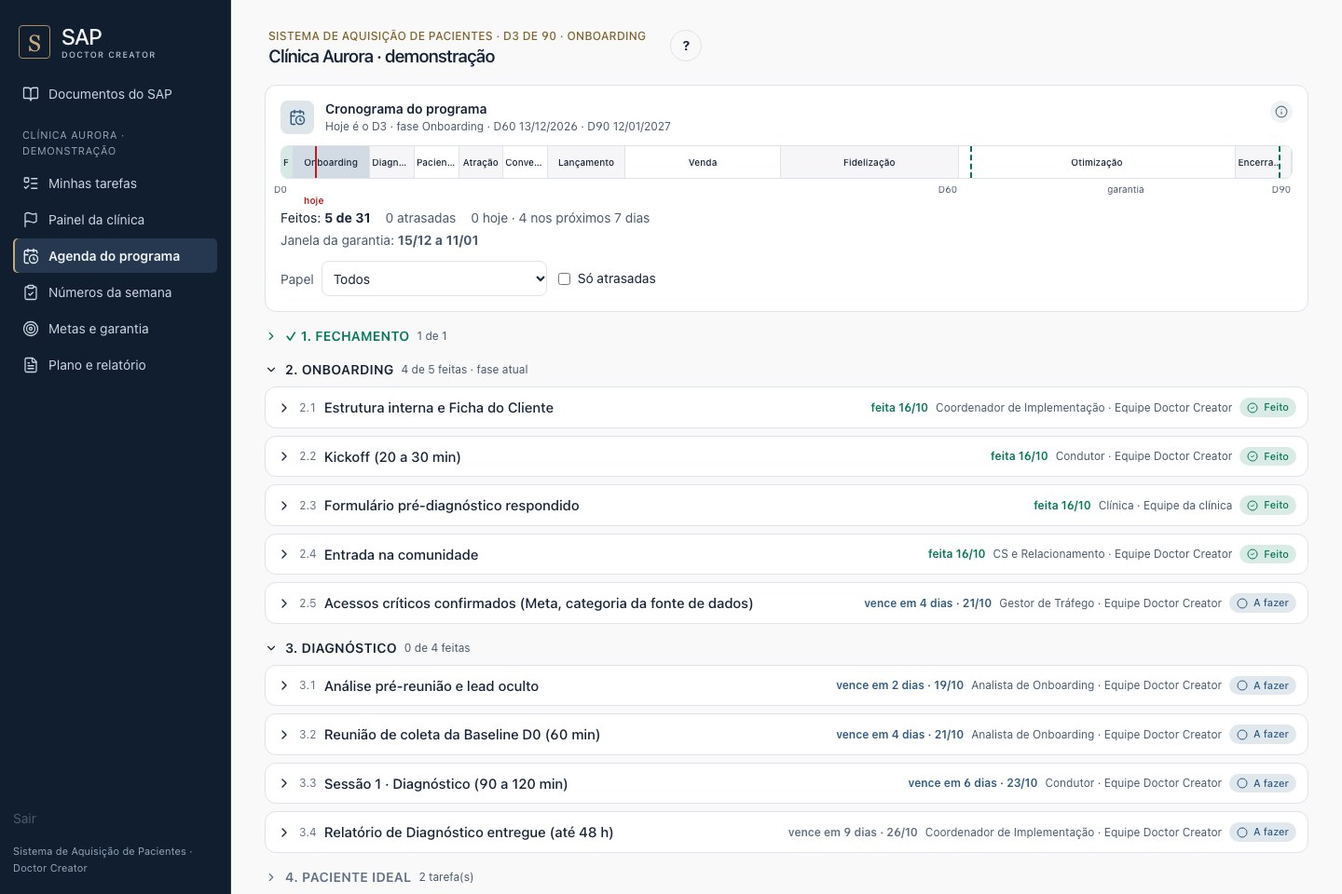
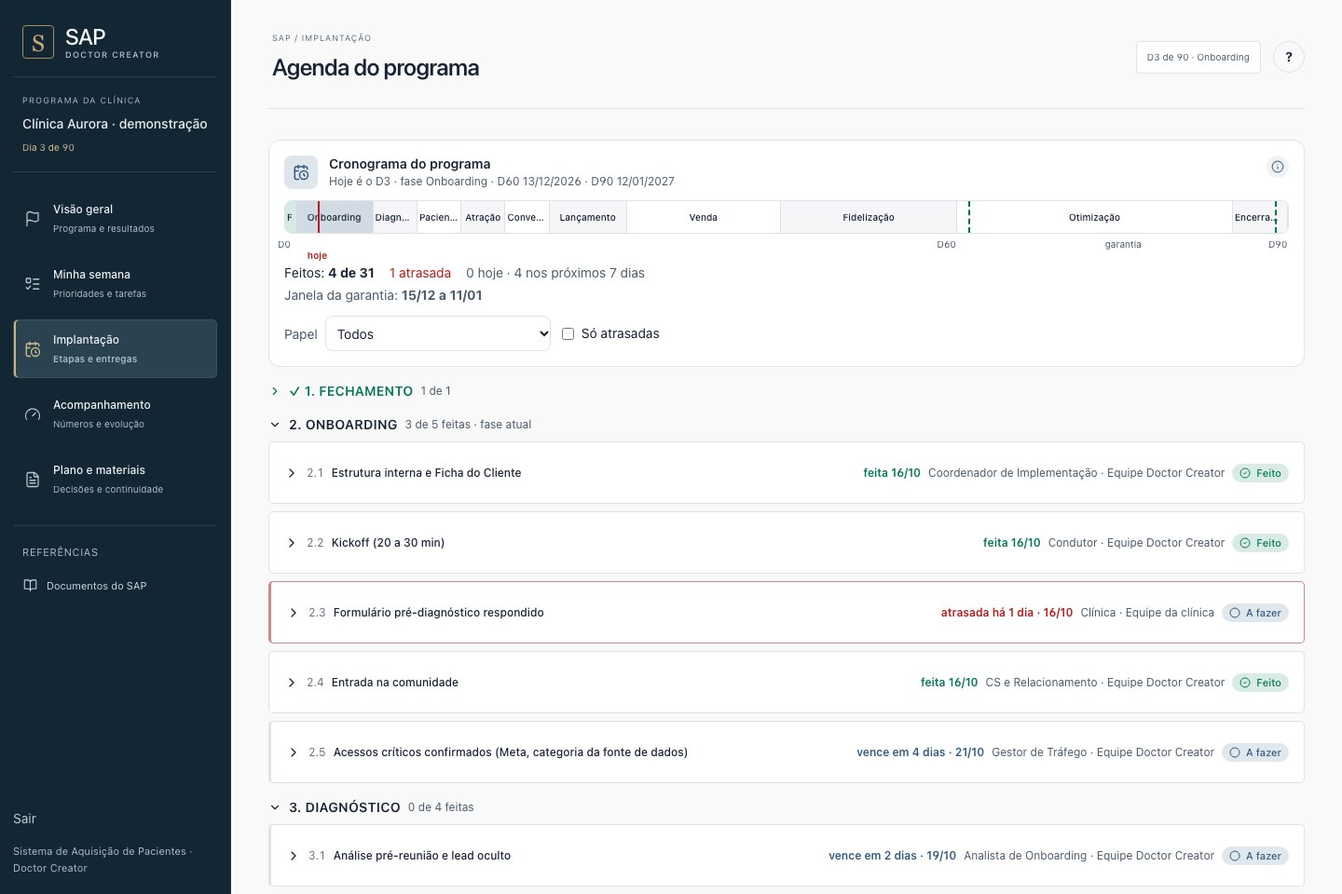
Redesign SAP workspace around programme areas and weekly priorities

diff --git a/src/routes/_authenticated.sap.tsx b/src/routes/_authenticated.sap.tsx
@@ -1,7 +1,7 @@
 import { ProductBrand } from "@/components/product-brand";
 import { createFileRoute, Link, Outlet, redirect, useRouterState } from "@tanstack/react-router";
 import { useQuery } from "@tanstack/react-query";
-import { useEffect, useState } from "react";
+import { useEffect, useRef, useState } from "react";
 import { CalendarClock, FileText, KeyRound, ClipboardCheck, Flag, Gauge, LayoutDashboard, ListChecks, ListTodo, Megaphone, Menu, Network, Target, Radar, Presentation, UsersRound, UserRoundCheck, BookOpen, X } from "lucide-react";
 import { useAuth } from "@/hooks/use-auth";
 import { LogoutButton } from "@/components/logout-button";
@@ -9,6 +9,7 @@ import { TrocaProduto } from "@/components/troca-produto";
 import { BotaoAjuda, PrimeiroAcesso } from "@/components/sap-ajuda";
 import { getClient } from "@/lib/client-data";
 import { supabase } from "@/integrations/supabase/client";
+import "@/sap-workspace.css";
 import { diaAtual, faseDoDia, getClinicaSap } from "@/lib/sap-data";
 
 // Sistema de Aquisição de Pacientes: produto separado do Doctor Creator Hub, com menu, entrada (sap.*) e
@@ -56,6 +57,15 @@ const ITENS = [
 ] as const;
 // Na visão da clínica, os grupos viram um só e alguns nomes ficam mais diretos.
 const ROTULO_CLINICA: Record<string, string> = { "/cronograma": "Agenda do programa", "/leitura": "Números da semana", "/documentos": "Plano e relatório" };
+// Groups reuse the existing permission-filtered items; every original destination stays available.
+const AREAS_SAP = [
+  { id: "visao", label: "Visão geral", hint: "Programa e resultados", Icone: Flag, subs: ["/painel"] },
+  { id: "tarefas", label: "Minha semana", hint: "Prioridades e tarefas", Icone: ListTodo, subs: [""] },
+  { id: "implantacao", label: "Implantação", hint: "Etapas e entregas", Icone: CalendarClock, subs: ["/cronograma", "/sessao", "/rastreamento", "/anuncios", "/etapas"] },
+  { id: "resultado", label: "Acompanhamento", hint: "Números e evolução", Icone: Gauge, subs: ["/leitura", "/metas", "/execucao", "/midia"] },
+  { id: "materiais", label: "Plano e materiais", hint: "Decisões e continuidade", Icone: FileText, subs: ["/documentos"] },
+  { id: "equipe", label: "Equipe e acessos", hint: "Responsáveis e preparação", Icone: UsersRound, subs: ["/papeis", "/onboarding"] },
+];
 const TITULOS: Record<string, string> = { "/sap/guia": "Como operamos", "/sap/docs": "Documentos do SAP", "/sap/comece": "Comece aqui" };
 
 function SapLayout() {
@@ -72,8 +82,32 @@ function SapConteudo({ isAdmin }: { isAdmin: boolean }) {
   const dia = diaAtual(clinica?.d0 ?? null, clinica?.pausas);
   const itens = (isAdmin ? ITENS.filter(() => true) : ITENS.filter((i) => "clinica" in i))
     .map((i) => ({ ...i, grupo: isAdmin ? i.grupo : "", label: isAdmin ? i.label : (ROTULO_CLINICA[i.sub] ?? i.label) }));
-  const titulo = TITULOS[pathname] ?? (clientId ? (cliente?.name ?? "Carregando…") : isAdmin ? "Todas as clínicas" : "Sistema de Aquisição");
+  const areas = AREAS_SAP.map(area => ({ ...area, itens: area.subs.flatMap(caminho => itens.filter(it => it.sub === caminho)) })).filter(area => area.itens.length);
+  const areaAtual = areas.find(area => area.subs.includes(sub ?? "__nenhuma__"));
+  const pagina = itens.find(it => it.sub === sub);
+  const titulo = clientId ? (sub === "" ? "Minha semana" : pagina?.label ?? "Programa da clínica") : TITULOS[pathname] ?? (isAdmin ? "Todas as clínicas" : "Sistema de Aquisição");
   const [gaveta, setGaveta] = useState(false);
+  const menuRef = useRef<HTMLElement>(null);
+  const openMenuRef = useRef<HTMLButtonElement>(null);
+  useEffect(() => {
+    if (!gaveta) return;
+    const menu = menuRef.current;
+    const opener = openMenuRef.current;
+    const focusable = () => Array.from(menu?.querySelectorAll<HTMLElement>("a[href],button:not([disabled])") ?? []).filter(el => el.getClientRects().length > 0);
+    focusable()[0]?.focus();
+    const onKey = (event: KeyboardEvent) => {
+      if (event.key === "Escape") { event.preventDefault(); setGaveta(false); }
+      if (event.key !== "Tab") return;
+      const items = focusable(), first = items[0], last = items[items.length - 1];
+      if (event.shiftKey && document.activeElement === first) { event.preventDefault(); last?.focus(); }
+      else if (!event.shiftKey && document.activeElement === last) { event.preventDefault(); first?.focus(); }
+    };
+    const desktop = window.matchMedia("(min-width: 821px)");
+    const onDesktop = () => { if (desktop.matches) setGaveta(false); };
+    document.addEventListener("keydown", onKey);
+    desktop.addEventListener("change", onDesktop);
+    return () => { document.removeEventListener("keydown", onKey); desktop.removeEventListener("change", onDesktop); opener?.focus(); };
+  }, [gaveta]);
   useEffect(() => { setGaveta(false); }, [pathname]);
 
   const links = (parte: "todas" | "clinica") => (
@@ -96,29 +130,22 @@ function SapConteudo({ isAdmin }: { isAdmin: boolean }) {
           <span>Documentos do SAP</span>
         </Link>
       )}
-      {parte === "clinica" &&
-        clientId &&
-        itens.map((it, i) => [
-          it.grupo && (i === 0 || itens[i - 1].grupo !== it.grupo) ? <div key={`g-${it.grupo}`} className="lbl" style={{ fontSize: 10, opacity: 0.8 }}>{it.grupo}</div> : null,
-          <Link
-            key={it.sub}
-            to={`/sap/$clientId${it.sub}` as never}
-            params={{ clientId } as never}
-            activeOptions={{ exact: true }}
-            data-on={sub === it.sub ? "" : undefined}
-            aria-current={sub === it.sub ? "page" : undefined}
-          >
-            <it.Icone aria-hidden size={18} />
-            <span>{it.label}</span>
-          </Link>,
-        ])}
+      {parte === "clinica" && clientId && areas.map(area => (
+        <Link key={area.id} to={`/sap/$clientId${area.itens[0].sub}` as never} params={{ clientId } as never} activeOptions={{ exact: true }}
+          data-on={areaAtual?.id === area.id ? "" : undefined}
+          aria-current={sub === area.itens[0].sub ? "page" : undefined}>
+          <area.Icone aria-hidden size={18} /><span><strong>{area.label}</strong><small>{area.hint}</small></span>
+        </Link>
+      ))}
+
     </>
   );
 
   return (
-    <div className="app">
+    <div className="app sap-workspace">
+      <a className="nx-skip" href="#sap-main">Ir para o conteúdo</a>
       {gaveta && <div className="sap-fundo-gaveta" aria-hidden onClick={() => setGaveta(false)} />}
-      <aside aria-label="Menu do Sistema de Aquisição" className={gaveta ? "gaveta" : undefined}>
+      <aside ref={menuRef} role={gaveta ? "dialog" : undefined} aria-modal={gaveta ? true : undefined} aria-label="Menu do Sistema de Aquisição" className={gaveta ? "gaveta" : undefined}>
         {gaveta && (
           <button type="button" aria-label="Fechar o menu" onClick={() => setGaveta(false)} className="sap-fechar-gaveta self-end rounded-md p-1"><X size={20} /></button>
         )}
@@ -126,36 +153,31 @@ function SapConteudo({ isAdmin }: { isAdmin: boolean }) {
           <ProductBrand product="sap" dark />
         </div>
         {isAdmin && <TrocaProduto atual="sap" clientId={clientId} />}
-        <nav className="side">
-          {links("todas")}
-          {clientId && <div className="lbl">{cliente?.name ?? "Clínica"}</div>}
-          {links("clinica")}
-        </nav>
+        {clientId && <div className="sap-clinic-context"><span>Programa da clínica</span><strong>{cliente?.name ?? "Carregando…"}</strong>{dia !== null && <small>{dia < 0 ? "Início agendado" : dia > 90 ? "Continuidade" : `Dia ${dia} de 90`}</small>}</div>}
+        {clientId && <nav className="side sap-area-nav" aria-label="Áreas do SAP">{links("clinica")}</nav>}
+        <nav className="side sap-system-nav" aria-label="Recursos do programa">{clientId && <div className="lbl">{isAdmin ? "Operação" : "Referências"}</div>}{links("todas")}</nav>
         <div className="side-foot so-aberta">
           <LogoutButton className="text-sm text-left min-h-[36px]" />
           <span>Sistema de Aquisição de Pacientes · Doctor Creator</span>
         </div>
       </aside>
-      <div className="mainwrap">
-        <div className="top admin-top">
+      <div className="mainwrap" inert={gaveta || undefined}>
+        <header className="top admin-top sap-workspace-header">
           <div className="who">
-            <button type="button" aria-label="Abrir o menu" aria-expanded={gaveta} onClick={() => setGaveta(true)} className="sap-menu-btn mr-2 rounded-md border p-1.5" style={{ borderColor: "var(--border)" }}><Menu size={20} /></button>
+            <button ref={openMenuRef} type="button" aria-label="Abrir o menu" aria-expanded={gaveta} onClick={() => setGaveta(true)} className="sap-menu-btn mr-2 rounded-md border p-1.5" style={{ borderColor: "var(--border)" }}><Menu size={20} /></button>
             <div style={{ minWidth: 0 }}>
-              <span className="text-xs font-medium uppercase tracking-wide" style={{ color: "var(--brand-gold-ink)" }}>
-                Sistema de Aquisição de Pacientes
-                {clientId && clinica?.d0 && dia !== null ? ` · ${dia > 90 ? "acompanhamento" : dia < 0 ? `começa em ${-dia} dia(s)` : `D${dia} de 90 · ${faseDoDia(dia)}`}` : ""}
-              </span>
+              <span className="sap-workspace-kicker">SAP / {clientId ? areaAtual?.label ?? "Programa" : "Operação Doctor Creator"}</span>
               <h1>{titulo}</h1>
             </div>
           </div>
-          <div className="flex flex-wrap items-center gap-2">
+          <div className="sap-header-tools">
+            {clientId && clinica?.d0 && dia !== null && <span className="sap-phase-tag">{dia > 90 ? "Acompanhamento" : dia < 0 ? `Começa em ${-dia} dia(s)` : `D${dia} de 90 · ${faseDoDia(dia)}`}</span>}
             <BotaoAjuda isAdmin={isAdmin} />
           </div>
-        </div>
+        </header>
+        {clientId && areaAtual && areaAtual.itens.length > 1 && <nav className="sap-context-tabs" aria-label={`Telas de ${areaAtual.label}`}>{areaAtual.itens.map(it => <Link key={it.sub} to={`/sap/$clientId${it.sub}` as never} params={{ clientId } as never} aria-current={sub === it.sub ? "page" : undefined}>{it.label}</Link>)}</nav>}
         <PrimeiroAcesso isAdmin={isAdmin} clientId={clientId} />
-        <div className="mt-4">
-          <Outlet />
-        </div>
+        <main className="sap-workspace-content" id="sap-main" tabIndex={-1}><Outlet /></main>
       </div>
     </div>
   );

diff --git a/src/sap-workspace.css b/src/sap-workspace.css
@@ -1,0 +1,71 @@
+/* SAP workspace: programme navigation and execution hierarchy. */
+.sap-workspace{--sap-brass:#8c6c3d;--sap-tint:color-mix(in srgb,var(--sap-brass) 7%,var(--surface));--sap-deep:#152b37;--side:#132633;--side-hover:#203744;--side-active:#2c4350;grid-template-columns:250px minmax(0,1fr)}
+.sap-workspace>aside{--text-dim:#bdcbd5;--side-muted:#a8bdc8;--side-ink-2:#c9d7df;padding:29px 17px 18px;gap:23px}
+.sap-workspace .mainwrap{padding:30px 40px 70px;max-width:1500px}
+.sap-workspace .brand{padding-inline:10px}
+.sap-clinic-context{border-block:1px solid #ffffff1b;padding:18px 10px;display:flex;flex-direction:column;gap:7px;color:#e8eef0}
+.sap-clinic-context>span{font-size:9px;letter-spacing:.12em;text-transform:uppercase;color:#a8bcc7}
+.sap-clinic-context strong{font-size:14px;font-weight:500;line-height:1.6}
+.sap-clinic-context small{font-size:10px;color:#d3bd94}
+.sap-workspace nav.sap-area-nav{gap:7px}
+.sap-workspace nav.sap-area-nav a{padding:12px 11px;gap:13px;align-items:center;min-height:61px;border:1px solid transparent;border-radius:5px}
+.sap-workspace nav.sap-area-nav a[data-on]{border-color:#ffffff13;box-shadow:inset 2px 0 0 #d1b17c;background:#2b4350}
+.sap-area-nav strong{display:block;font-size:12px;font-weight:500;line-height:1.5;color:#eff3f4}
+.sap-area-nav small{display:block;font-size:10px;line-height:1.6;color:#aabec8;margin-top:3px}
+.sap-workspace nav.sap-area-nav svg{color:#b8c7ce;flex:none}
+.sap-workspace nav.sap-area-nav a[data-on] svg{color:#d3bd94}
+.sap-workspace .sap-system-nav{border-top:1px solid #ffffff1a;padding-top:14px;gap:3px}
+.sap-workspace .sap-system-nav a{font-size:11px;padding:9px 11px;line-height:1.6}
+.sap-workspace .sap-system-nav svg{width:15px;height:15px}
+.sap-workspace-header{display:flex;justify-content:space-between;flex-wrap:nowrap;align-items:center;border-bottom:1px solid var(--border);padding:0 0 24px;margin:0;gap:15px}
+.sap-workspace-kicker{display:block;font-size:9px;letter-spacing:.1em;text-transform:uppercase;color:var(--muted);margin-bottom:7px}
+.sap-workspace .sap-workspace-header h1{font-size:25px;letter-spacing:-.8px;font-weight:500;line-height:1.35}
+.sap-header-tools{display:flex;align-items:center;justify-content:end;gap:13px;flex-wrap:wrap}
+.sap-phase-tag{border:1px solid var(--border);border-radius:4px;padding:8px 11px;font-size:10px;color:var(--ink-2);background:var(--surface);line-height:1.7}
+.sap-context-tabs{display:flex;gap:24px;border-bottom:1px solid var(--border);overflow-x:auto;overscroll-behavior-x:contain;min-width:0}
+.sap-context-tabs a{padding:16px 0 14px;color:var(--muted);font-size:11px;white-space:nowrap;border-bottom:2px solid transparent;text-decoration:none;line-height:1.6}
+.sap-context-tabs a[aria-current=page]{border-color:var(--sap-brass);color:var(--ink);font-weight:550}
+.sap-workspace-content{padding-top:27px;min-width:0;outline:none}
+.sap-workspace-content:focus-visible{outline:2px solid var(--accent);outline-offset:3px}
+.sap-eyebrow{font-size:9px;letter-spacing:.1em;text-transform:uppercase;line-height:1.8;color:var(--muted);margin:0}
+.sap-week-heading{display:flex;justify-content:space-between;align-items:end;gap:25px;margin-bottom:25px}
+.sap-week-heading h2{font-size:29px;font-weight:450;letter-spacing:-.9px;line-height:1.25;margin-top:10px}
+.sap-week-heading>div>p:last-child{font-size:12px;line-height:1.9;color:var(--ink-2);margin-top:13px;max-width:590px}
+.sap-quiet-link{display:inline-flex;align-items:center;gap:10px;font-size:11px;color:var(--ink-2);min-height:42px;text-decoration:none;flex:none}
+.sap-week-board{display:grid;grid-template-columns:1.25fr 1fr;border:1px solid var(--border);border-radius:7px;overflow:hidden;background:var(--surface)}
+.sap-next-action{background:var(--sap-deep);padding:29px;color:#edf3f4;display:flex;align-items:start;flex-direction:column}
+.sap-next-action .sap-eyebrow{color:#d3bd94}
+.sap-next-action h3{font-size:24px;letter-spacing:-.6px;font-weight:450;line-height:1.3;margin-top:18px;max-width:550px}
+.sap-next-action>p:not(.sap-eyebrow){font-size:11px;color:#b6c9d2;margin-top:14px;line-height:1.9}
+.sap-action-link{display:inline-flex;align-items:center;gap:15px;padding:11px 15px;min-height:43px;background:#e7d8b6;color:#263e48;font-size:11px;font-weight:550;text-decoration:none;border-radius:3px;margin-top:24px}
+.sap-action-foot{font-size:9px;line-height:1.9;color:#b6c9d2;margin-top:18px}
+.sap-program-progress{padding:29px;display:flex;flex-direction:column;justify-content:center}
+.sap-progress-number{display:flex;align-items:end;gap:18px;margin:20px 0 23px;flex-wrap:wrap}
+.sap-progress-number strong{font-size:43px;letter-spacing:-1.5px;line-height:1;font-weight:450}
+.sap-progress-number strong>span{font-size:23px;letter-spacing:-.6px;color:var(--muted)}
+.sap-progress-number>span{font-size:11px;color:var(--ink-2);line-height:1.8}
+.sap-progress-track{height:5px;background:var(--border);overflow:hidden;border-radius:2px}
+.sap-progress-track>span{display:block;height:100%;background:var(--sap-brass)}
+.sap-program-progress>p:not(.sap-eyebrow){font-size:10px;color:var(--muted);line-height:1.9;margin-top:12px}
+.sap-progress-phase{display:flex;align-items:center;gap:10px;border-top:1px solid var(--border);padding-top:21px;margin-top:22px;font-size:11px;line-height:1.8;color:var(--ink-2)}
+.sap-progress-phase svg{color:var(--sap-brass);flex:none}
+.sap-workspace-shortcuts{display:grid;grid-template-columns:repeat(3,minmax(0,1fr));gap:13px;margin-top:18px}
+.sap-workspace-shortcuts a{display:flex;gap:13px;align-items:center;border:1px solid var(--border);border-radius:5px;padding:19px 15px;background:var(--surface);text-decoration:none}
+.sap-workspace-shortcuts a:hover{border-color:var(--sap-brass)}
+.sap-workspace-shortcuts a>svg{flex:none;color:var(--sap-brass)}
+.sap-workspace-shortcuts a>svg:last-child{width:14px;margin-left:auto;color:var(--muted)}
+.sap-workspace-shortcuts strong{display:block;font-size:11px;font-weight:550;line-height:1.7}
+.sap-workspace-shortcuts small{display:block;font-size:10px;color:var(--muted);line-height:1.8;margin-top:3px}
+.sap-section-heading{border-bottom:1px solid var(--border);padding-bottom:17px;margin-bottom:20px}
+.sap-section-heading h2{font-size:22px;font-weight:500;letter-spacing:-.5px;line-height:1.4;margin-top:8px}
+.sap-my-tasks{padding-top:19px;scroll-margin-top:25px}
+.sap-workspace .sap-task-card{border-radius:5px;overflow:hidden;box-shadow:none}
+.sap-workspace .sap-task-toggle{padding:15px 16px;min-height:65px;font-size:12px}
+.sap-workspace .sap-task-card[data-situation=atrasada]{border-left:3px solid var(--crit)}
+.sap-workspace .sap-task-card[data-situation=hoje]{border-left:3px solid var(--warn)}
+.sap-workspace .sap-task-card[data-situation=semana]{border-left:3px solid var(--accent)}
+@media(min-width:821px){.sap-workspace .sap-menu-btn{display:none}}
+@media(max-width:1100px){.sap-workspace .mainwrap{padding-inline:25px}.sap-week-board{grid-template-columns:1.1fr 1fr}.sap-next-action,.sap-program-progress{padding:24px}.sap-workspace-shortcuts{grid-template-columns:1fr}.sap-workspace-shortcuts a{padding:15px 19px}.sap-workspace-shortcuts small{margin-top:0}}
+@media(max-width:820px){.sap-workspace{display:block}.sap-workspace .mainwrap{padding:20px 18px 40px}.sap-workspace>aside{padding-top:25px}.sap-workspace-header{padding-bottom:20px;align-items:start}.sap-workspace .sap-workspace-header .who{align-items:center;gap:3px;min-width:0}.sap-workspace .sap-workspace-header h1{font-size:22px}.sap-workspace-kicker{font-size:8px;letter-spacing:.06em}.sap-header-tools{gap:8px}.sap-phase-tag{display:none}.sap-context-tabs{gap:23px}.sap-context-tabs a{padding-block:14px 12px}.sap-workspace-content{padding-top:24px}.sap-week-heading{display:block;margin-bottom:20px}.sap-week-heading h2{font-size:27px}.sap-quiet-link{margin-top:12px;min-height:35px}.sap-week-board{grid-template-columns:1fr}.sap-next-action,.sap-program-progress{padding:25px 22px}.sap-next-action h3{font-size:23px}.sap-program-progress{border-top:1px solid var(--border)}.sap-progress-number strong{font-size:39px}.sap-workspace-shortcuts{gap:10px}.sap-my-tasks{padding-top:10px}.sap-workspace .sap-task-toggle{padding:13px 12px}.sap-workspace .sap-task-toggle>span{line-height:1.8}.sap-workspace .sap-task-toggle .selo{font-size:10px}.sap-workspace .sap-menu-btn{flex:none;margin-right:7px}}
+:root[data-theme=dark] .sap-workspace{--sap-brass:#c6aa7d}
+@media(prefers-color-scheme:dark){:root:not([data-theme=light]) .sap-workspace{--sap-brass:#c6aa7d}}

diff --git a/src/components/sap-tarefas.tsx b/src/components/sap-tarefas.tsx
@@ -2,6 +2,8 @@ import { useEffect, useMemo, useRef, useState } from "react";
 import { Link } from "@tanstack/react-router";
 import { useMutation, useQuery, useQueryClient } from "@tanstack/react-query";
 import { AlertTriangle, CheckCircle2, ChevronDown, ChevronRight, Circle, CircleSlash, Cpu, ExternalLink, Paperclip, UserRoundCheck } from "lucide-react";
+import { SapWeekOverview } from "@/components/sap-week-overview";
+import { diaAtual } from "@/lib/sap-data";
 import { useAuth } from "@/hooks/use-auth";
 import { Painel, Selo } from "@/components/visual";
 import { TextoComCodigos } from "@/components/sap-docs";
@@ -82,9 +84,9 @@ export function CardTarefa({ t, clientId, clinicaId, hoje, nomeClinica, abertoIn
   const st = STATUS[t.status];
   const papel = `${NOME_PAPEL[t.papel]}${t.pessoa ? ` · ${t.pessoa}` : " · sem pessoa"}`;
   return (
-    <li className="rounded-xl border" style={{ borderColor: t.situacao === "atrasada" ? "color-mix(in srgb, var(--crit) 45%, var(--border))" : "var(--border)", background: "var(--surface)" }}>
+    <li className="sap-task-card rounded-xl border" data-situation={t.situacao} style={{ borderColor: t.situacao === "atrasada" ? "color-mix(in srgb, var(--crit) 45%, var(--border))" : "var(--border)", background: "var(--surface)" }}>
       <button type="button" onClick={() => setAberto(!aberto)} aria-expanded={aberto}
-        className="flex w-full min-w-0 flex-wrap items-center gap-x-2 gap-y-1 px-3 py-2.5 text-left">
+        className="sap-task-toggle flex w-full min-w-0 flex-wrap items-center gap-x-2 gap-y-1 px-3 py-2.5 text-left">
         {aberto ? <ChevronDown size={16} aria-hidden className="shrink-0" /> : <ChevronRight size={16} aria-hidden className="shrink-0" />}
         <span className="text-xs tabular-nums" style={{ color: "var(--muted)" }}>{t.codigo}</span>
         <span className="min-w-0 flex-1 font-medium" style={{ overflowWrap: "anywhere" }}>{nomeClinica ? <span style={{ color: "var(--text-dim)" }}>{nomeClinica} · </span> : null}{t.nome}</span>
@@ -357,7 +359,7 @@ export function AlertasFundador({ alertas, nomes }: { alertas: AlertaFundador[];
 
 // ---------------------------------------------------------------- Minhas tarefas (uma clínica)
 
-export function MinhasTarefasClinica({ clientId, filtroInicial = "minhas", grupos }: { clientId: string; filtroInicial?: Filtro; grupos?: Situacao[] }) {
+export function MinhasTarefasClinica({ clientId, filtroInicial = "minhas", grupos, resumoSemana = false }: { clientId: string; filtroInicial?: Filtro; grupos?: Situacao[]; resumoSemana?: boolean }) {
   const { isAdmin, user } = useAuth();
   const { lista, isLoading, error, hoje } = useTarefas(clientId);
   const [filtro, setFiltro] = useState<Filtro>(isAdmin ? filtroInicial : "minhas");
@@ -365,12 +367,15 @@ export function MinhasTarefasClinica({ clientId, filtroInicial = "minhas", grupo
   if (isLoading) return <p className="note">Carregando…</p>;
   if (error) return <p className="note" style={{ color: "var(--crit)" }}>{(error as Error).message}</p>;
   if (!c) return <p className="note">Esta clínica ainda não está no Sistema de Aquisição.</p>;
-  if (!c.entrada.clinica.d0) return <p className="note">Defina o D0 em Painel da clínica → Editar cadastro: as tarefas saem do cronograma, que conta a partir dele.</p>;
+  if (!c.entrada.clinica.d0) return <p className="note">{isAdmin ? "Defina a data de início em Painel da clínica → Editar cadastro para preparar as tarefas do programa." : "A equipe Doctor Creator vai definir a data de início. As tarefas aparecerão aqui quando o programa estiver preparado."}</p>;
   const meus = papeisDoUsuario(c.entrada, user?.id);
   const visiveis = filtrar(c, filtro, user?.id, isAdmin);
   const ehFundador = meus.includes("fundador");
   return (
-    <div className="space-y-4">
+    <>
+      {resumoSemana && <SapWeekOverview clientId={clientId} day={diaAtual(c.entrada.clinica.d0, c.entrada.clinica.pausas)} all={contarTarefas(c.tarefas)} next={filtrar(c, "minhas", user?.id, isAdmin).filter(t => t.status === "a_fazer" && t.situacao !== "depois").sort(porUrgencia)[0]} missingRole={isAdmin && !meus.length} hoje={hoje} />}
+    <section className="sap-my-tasks space-y-4" id="sap-tarefas" aria-labelledby="sap-tasks-title">
+      <div className="sap-section-heading"><p className="sap-eyebrow">Executar e acompanhar</p><h2 id="sap-tasks-title">Minhas tarefas</h2></div>
       <AlertaPapeis entrada={c.entrada} clientId={clientId} />
       {isAdmin && (ehFundador || filtro === "todas") && <AlertasFundador alertas={c.alertas} />}
       <div className="flex flex-wrap items-center justify-between gap-3">
@@ -384,7 +389,8 @@ export function MinhasTarefasClinica({ clientId, filtroInicial = "minhas", grupo
       ) : (
         <ListaAgrupada itens={visiveis.map((t) => ({ t, clientId, clinicaId: c.entrada.clinica.id }))} hoje={hoje} vazio="Nada para fazer agora. Tudo em dia." grupos={grupos} />
       )}
-    </div>
+    </section>
+    </>
   );
 }
 

diff --git a/src/components/sap-week-overview.tsx b/src/components/sap-week-overview.tsx
@@ -1,0 +1,21 @@
+import { Link } from "@tanstack/react-router";
+import { ArrowRight, CalendarDays, ClipboardList, Target } from "lucide-react";
+import { rotuloPrazo, type Tarefa } from "@/lib/sap-tarefas";
+import { faseDoDia } from "@/lib/sap-data";
+
+/** Presentation over the same tasks used by the calendar; no new sources or completion rules. */
+export function SapWeekOverview({ clientId, day, all, next, missingRole, hoje }: {
+  clientId: string; day: number | null; all: { total: number; feitos: number }; next: Tarefa | undefined; missingRole: boolean; hoje: string;
+}) {
+  const completed = all.total ? Math.round(all.feitos / all.total * 100) : 0;
+  return (
+    <section className="sap-week-overview" aria-labelledby="sap-week-title">
+      <div className="sap-week-heading"><div><p className="sap-eyebrow">Seu programa em movimento</p><h2 id="sap-week-title">O próximo passo, no lugar certo.</h2><p>Prioridades da semana, avanço da implantação e os caminhos para acompanhar a clínica.</p></div><Link to="/sap/$clientId/cronograma" params={{ clientId }} className="sap-quiet-link">Ver toda a jornada<ArrowRight size={16} aria-hidden /></Link></div>
+      <div className="sap-week-board">
+        <div className="sap-next-action"><p className="sap-eyebrow">{next ? "Sua próxima prioridade" : "Suas prioridades"}</p><h3>{next?.nome ?? (missingRole ? "Defina seu papel na clínica para acompanhar suas tarefas." : "Nenhuma tarefa pendente para agora.")}</h3><p>{next ? `${rotuloPrazo(next.prazo, hoje)} · ${next.pessoa ?? "Responsável a definir"}` : "As tarefas e os responsáveis são organizados a partir do cronograma do programa."}</p><a href="#sap-tarefas" className="sap-action-link">{next ? "Ver tarefa e orientações" : "Consultar minhas tarefas"}<ArrowRight size={16} aria-hidden /></a><span className="sap-action-foot">As conclusões automáticas e manuais seguem os registros do programa.</span></div>
+        <div className="sap-program-progress"><p className="sap-eyebrow">Implantação da clínica</p><div className="sap-progress-number"><strong>{all.feitos}<span> / {all.total}</span></strong><span>entregas concluídas</span></div><div className="sap-progress-track" role="progressbar" aria-label="Entregas concluídas" aria-valuemin={0} aria-valuemax={all.total || 1} aria-valuenow={all.feitos}><span style={{ width: `${completed}%` }} /></div><p>{completed}% das entregas aplicáveis · rotinas semanais acompanhadas à parte</p><div className="sap-progress-phase"><CalendarDays size={17} aria-hidden /><span>{day === null ? "Data de início a definir" : day < 0 ? "Início agendado" : day > 90 ? "Continuidade do programa" : `Dia ${day} de 90 · ${faseDoDia(day)}`}</span></div></div>
+      </div>
+      <nav className="sap-workspace-shortcuts" aria-label="Acompanhar o programa"><Link to="/sap/$clientId/cronograma" params={{ clientId }}><CalendarDays size={18} aria-hidden /><span><strong>Agenda e entregas</strong><small>Etapas, responsáveis e prazos</small></span><ArrowRight size={16} aria-hidden /></Link><Link to="/sap/$clientId/leitura" params={{ clientId }}><Target size={18} aria-hidden /><span><strong>Números da semana</strong><small>Entender o que precisa melhorar</small></span><ArrowRight size={16} aria-hidden /></Link><Link to="/sap/$clientId/documentos" params={{ clientId }}><ClipboardList size={18} aria-hidden /><span><strong>Plano e materiais</strong><small>Decisões e próximos passos</small></span><ArrowRight size={16} aria-hidden /></Link></nav>
+    </section>
+  );
+}

diff --git a/src/routes/_authenticated.sap.$clientId.index.tsx b/src/routes/_authenticated.sap.$clientId.index.tsx
@@ -14,7 +14,7 @@ function MinhasTarefas() {
   const { isAdmin } = useAuth();
   return (
     <div className="space-y-6">
-      <MinhasTarefasClinica clientId={clientId} />
+      <MinhasTarefasClinica clientId={clientId} resumoSemana />
       {isAdmin && <LeadsAtencao clientId={clientId} />}
     </div>
   );
